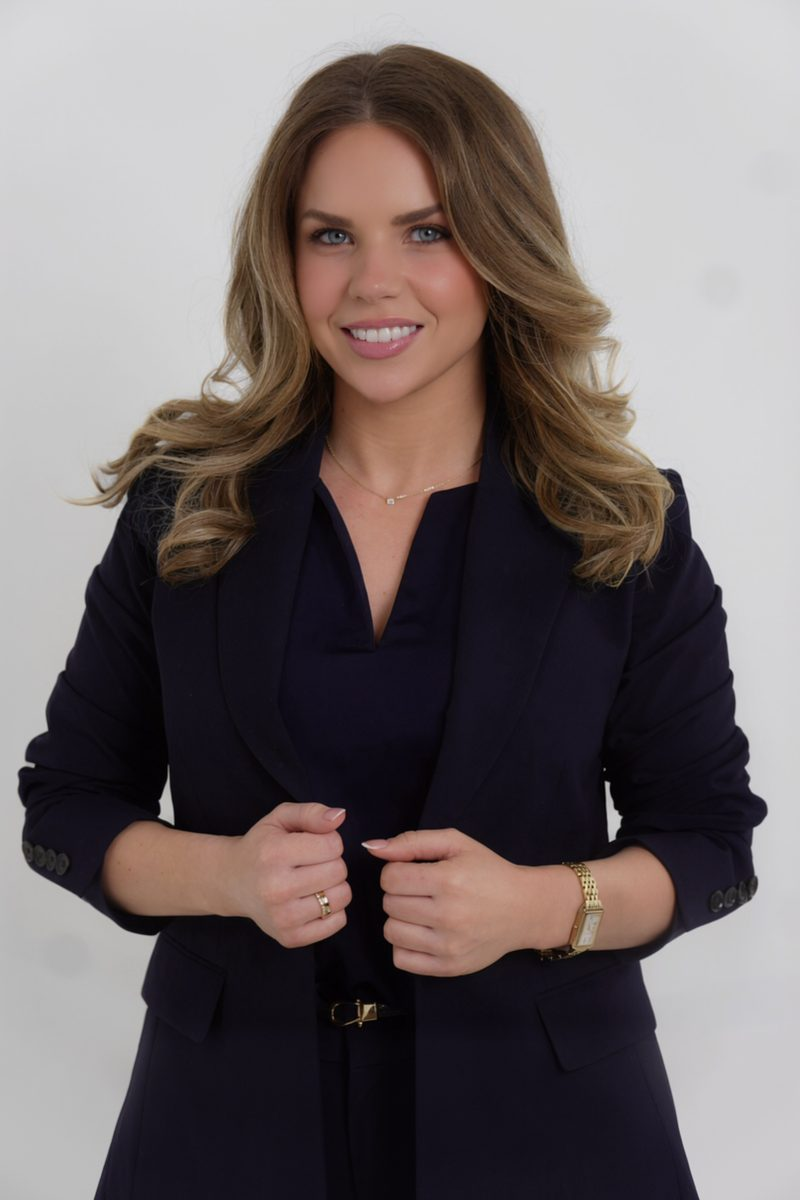
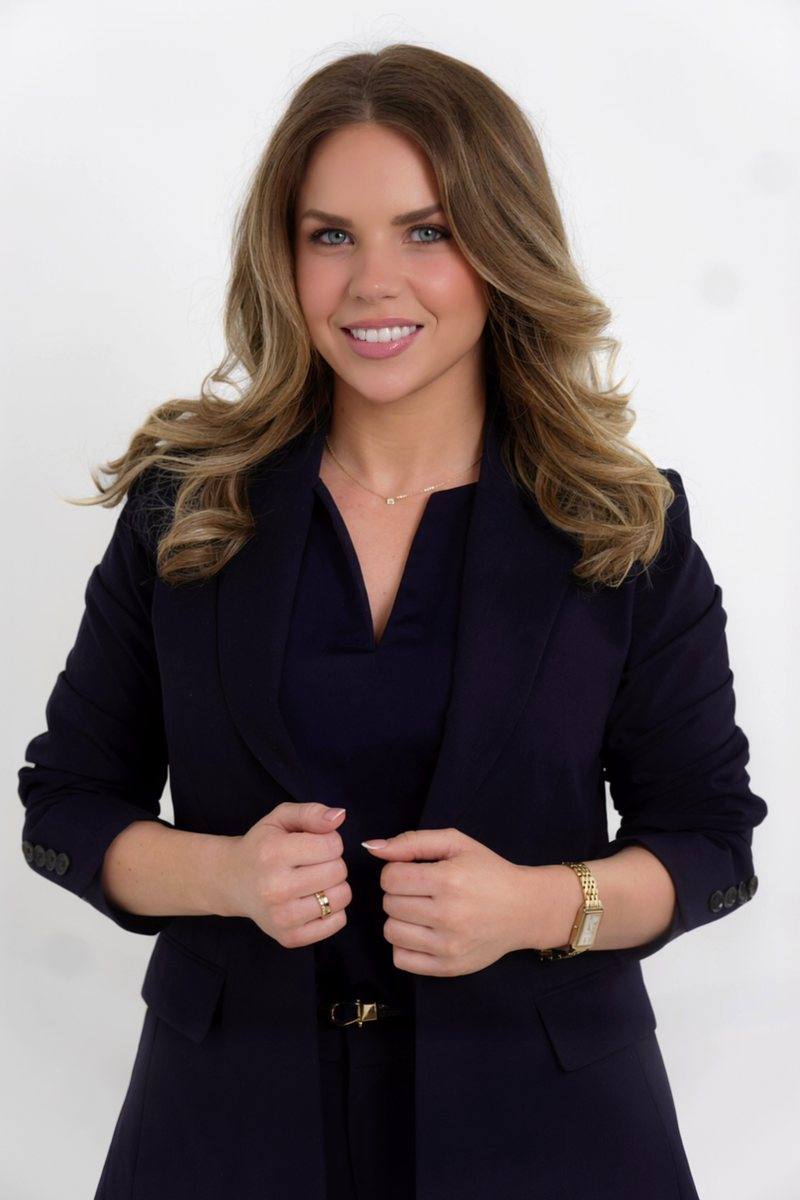
Brighten founder photo background

diff --git a/404.html b/404.html
@@ -8,7 +8,7 @@
 <link rel="preconnect" href="https://fonts.googleapis.com">
 <link rel="preconnect" href="https://fonts.gstatic.com" crossorigin>
 <link href="https://fonts.googleapis.com/css2?family=Fraunces:ital,opsz,wght@0,9..144,400;0,9..144,500;0,9..144,600;1,9..144,400;1,9..144,500&family=Inter:wght@400;500;600&display=swap" rel="stylesheet">
-<link rel="stylesheet" href="style.css?v=1784155968">
+<link rel="stylesheet" href="style.css?v=1784156072">
 </head>
 <body>
 

diff --git a/about.html b/about.html
@@ -8,7 +8,7 @@
 <link rel="preconnect" href="https://fonts.googleapis.com">
 <link rel="preconnect" href="https://fonts.gstatic.com" crossorigin>
 <link href="https://fonts.googleapis.com/css2?family=Fraunces:ital,opsz,wght@0,9..144,400;0,9..144,500;0,9..144,600;1,9..144,400;1,9..144,500&family=Inter:wght@400;500;600&display=swap" rel="stylesheet">
-<link rel="stylesheet" href="style.css?v=1784155968">
+<link rel="stylesheet" href="style.css?v=1784156072">
 </head>
 <body>
 

diff --git a/blog.html b/blog.html
@@ -8,7 +8,7 @@
 <link rel="preconnect" href="https://fonts.googleapis.com">
 <link rel="preconnect" href="https://fonts.gstatic.com" crossorigin>
 <link href="https://fonts.googleapis.com/css2?family=Fraunces:ital,opsz,wght@0,9..144,400;0,9..144,500;0,9..144,600;1,9..144,400;1,9..144,500&family=Inter:wght@400;500;600&display=swap" rel="stylesheet">
-<link rel="stylesheet" href="style.css?v=1784155968">
+<link rel="stylesheet" href="style.css?v=1784156072">
 </head>
 <body>
 

diff --git a/blog/asc-606-saas-revenue-recognition.html b/blog/asc-606-saas-revenue-recognition.html
@@ -8,7 +8,7 @@
 <link rel="preconnect" href="https://fonts.googleapis.com">
 <link rel="preconnect" href="https://fonts.gstatic.com" crossorigin>
 <link href="https://fonts.googleapis.com/css2?family=Fraunces:ital,opsz,wght@0,9..144,400;0,9..144,500;0,9..144,600;1,9..144,400;1,9..144,500&family=Inter:wght@400;500;600&display=swap" rel="stylesheet">
-<link rel="stylesheet" href="../style.css?v=1784155968">
+<link rel="stylesheet" href="../style.css?v=1784156072">
 </head>
 <body>
 

diff --git a/blog/cash-vs-accrual-accounting.html b/blog/cash-vs-accrual-accounting.html
@@ -8,7 +8,7 @@
 <link rel="preconnect" href="https://fonts.googleapis.com">
 <link rel="preconnect" href="https://fonts.gstatic.com" crossorigin>
 <link href="https://fonts.googleapis.com/css2?family=Fraunces:ital,opsz,wght@0,9..144,400;0,9..144,500;0,9..144,600;1,9..144,400;1,9..144,500&family=Inter:wght@400;500;600&display=swap" rel="stylesheet">
-<link rel="stylesheet" href="../style.css?v=1784155968">
+<link rel="stylesheet" href="../style.css?v=1784156072">
 </head>
 <body>
 

diff --git a/contact.html b/contact.html
@@ -8,7 +8,7 @@
 <link rel="preconnect" href="https://fonts.googleapis.com">
 <link rel="preconnect" href="https://fonts.gstatic.com" crossorigin>
 <link href="https://fonts.googleapis.com/css2?family=Fraunces:ital,opsz,wght@0,9..144,400;0,9..144,500;0,9..144,600;1,9..144,400;1,9..144,500&family=Inter:wght@400;500;600&display=swap" rel="stylesheet">
-<link rel="stylesheet" href="style.css?v=1784155968">
+<link rel="stylesheet" href="style.css?v=1784156072">
 </head>
 <body>
 

diff --git a/index.html b/index.html
@@ -8,7 +8,7 @@
 <link rel="preconnect" href="https://fonts.googleapis.com">
 <link rel="preconnect" href="https://fonts.gstatic.com" crossorigin>
 <link href="https://fonts.googleapis.com/css2?family=Fraunces:ital,opsz,wght@0,9..144,400;0,9..144,500;0,9..144,600;1,9..144,400;1,9..144,500&family=Inter:wght@400;500;600&display=swap" rel="stylesheet">
-<link rel="stylesheet" href="style.css?v=1784155968">
+<link rel="stylesheet" href="style.css?v=1784156072">
 </head>
 <body>
 

diff --git a/legal.html b/legal.html
@@ -8,7 +8,7 @@
 <link rel="preconnect" href="https://fonts.googleapis.com">
 <link rel="preconnect" href="https://fonts.gstatic.com" crossorigin>
 <link href="https://fonts.googleapis.com/css2?family=Fraunces:ital,opsz,wght@0,9..144,400;0,9..144,500;0,9..144,600;1,9..144,400;1,9..144,500&family=Inter:wght@400;500;600&display=swap" rel="stylesheet">
-<link rel="stylesheet" href="style.css?v=1784155968">
+<link rel="stylesheet" href="style.css?v=1784156072">
 </head>
 <body>
 

diff --git a/services.html b/services.html
@@ -8,7 +8,7 @@
 <link rel="preconnect" href="https://fonts.googleapis.com">
 <link rel="preconnect" href="https://fonts.gstatic.com" crossorigin>
 <link href="https://fonts.googleapis.com/css2?family=Fraunces:ital,opsz,wght@0,9..144,400;0,9..144,500;0,9..144,600;1,9..144,400;1,9..144,500&family=Inter:wght@400;500;600&display=swap" rel="stylesheet">
-<link rel="stylesheet" href="style.css?v=1784155968">
+<link rel="stylesheet" href="style.css?v=1784156072">
 </head>
 <body>
 

diff --git a/who-we-help.html b/who-we-help.html
@@ -8,7 +8,7 @@
 <link rel="preconnect" href="https://fonts.googleapis.com">
 <link rel="preconnect" href="https://fonts.gstatic.com" crossorigin>
 <link href="https://fonts.googleapis.com/css2?family=Fraunces:ital,opsz,wght@0,9..144,400;0,9..144,500;0,9..144,600;1,9..144,400;1,9..144,500&family=Inter:wght@400;500;600&display=swap" rel="stylesheet">
-<link rel="stylesheet" href="style.css?v=1784155968">
+<link rel="stylesheet" href="style.css?v=1784156072">
 </head>
 <body>
 